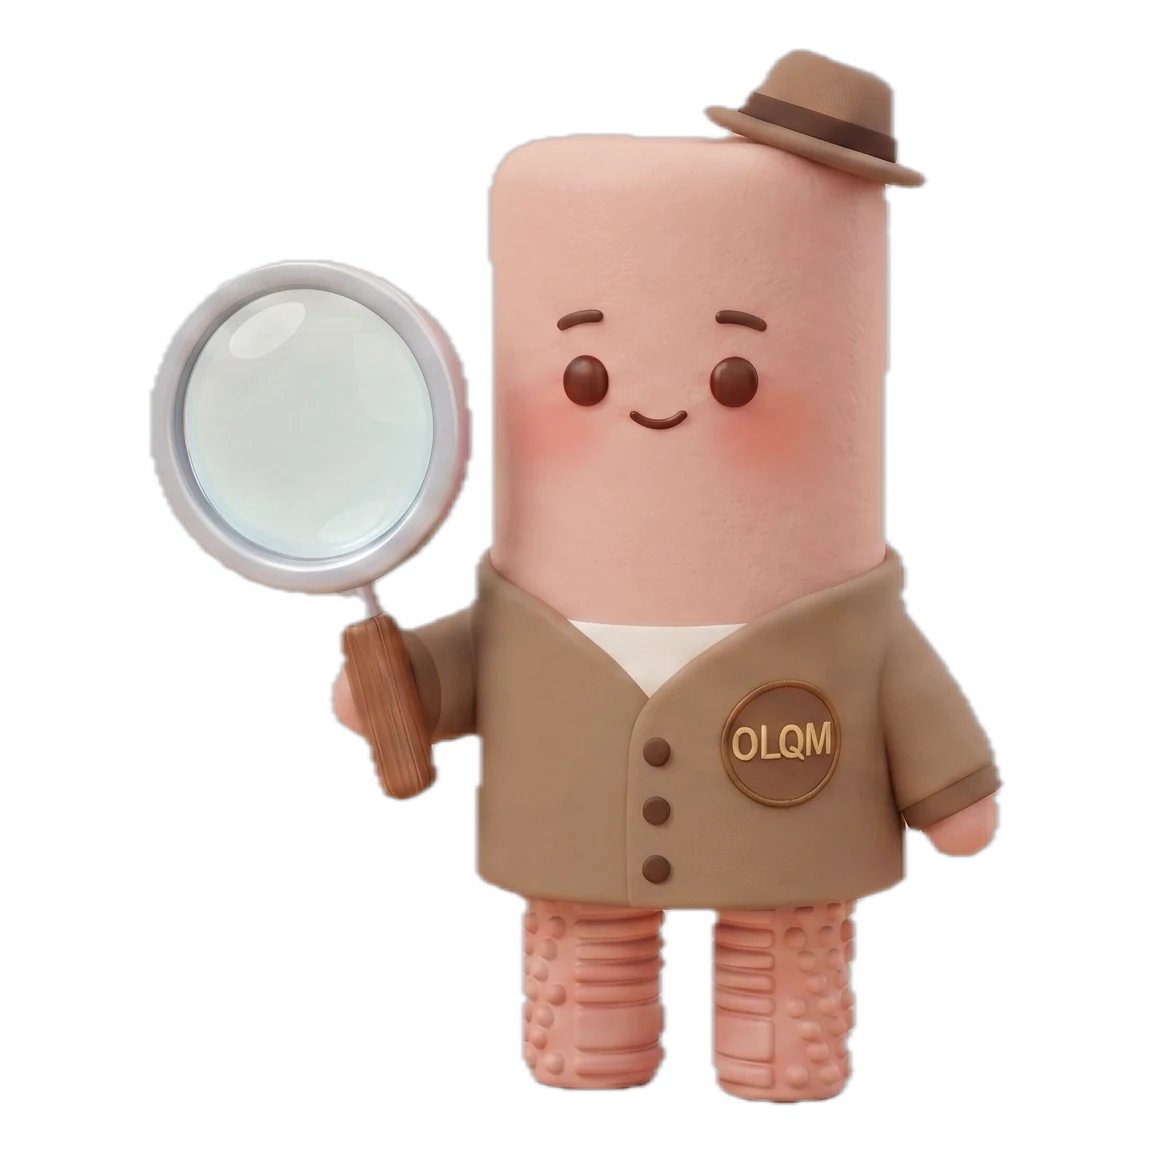
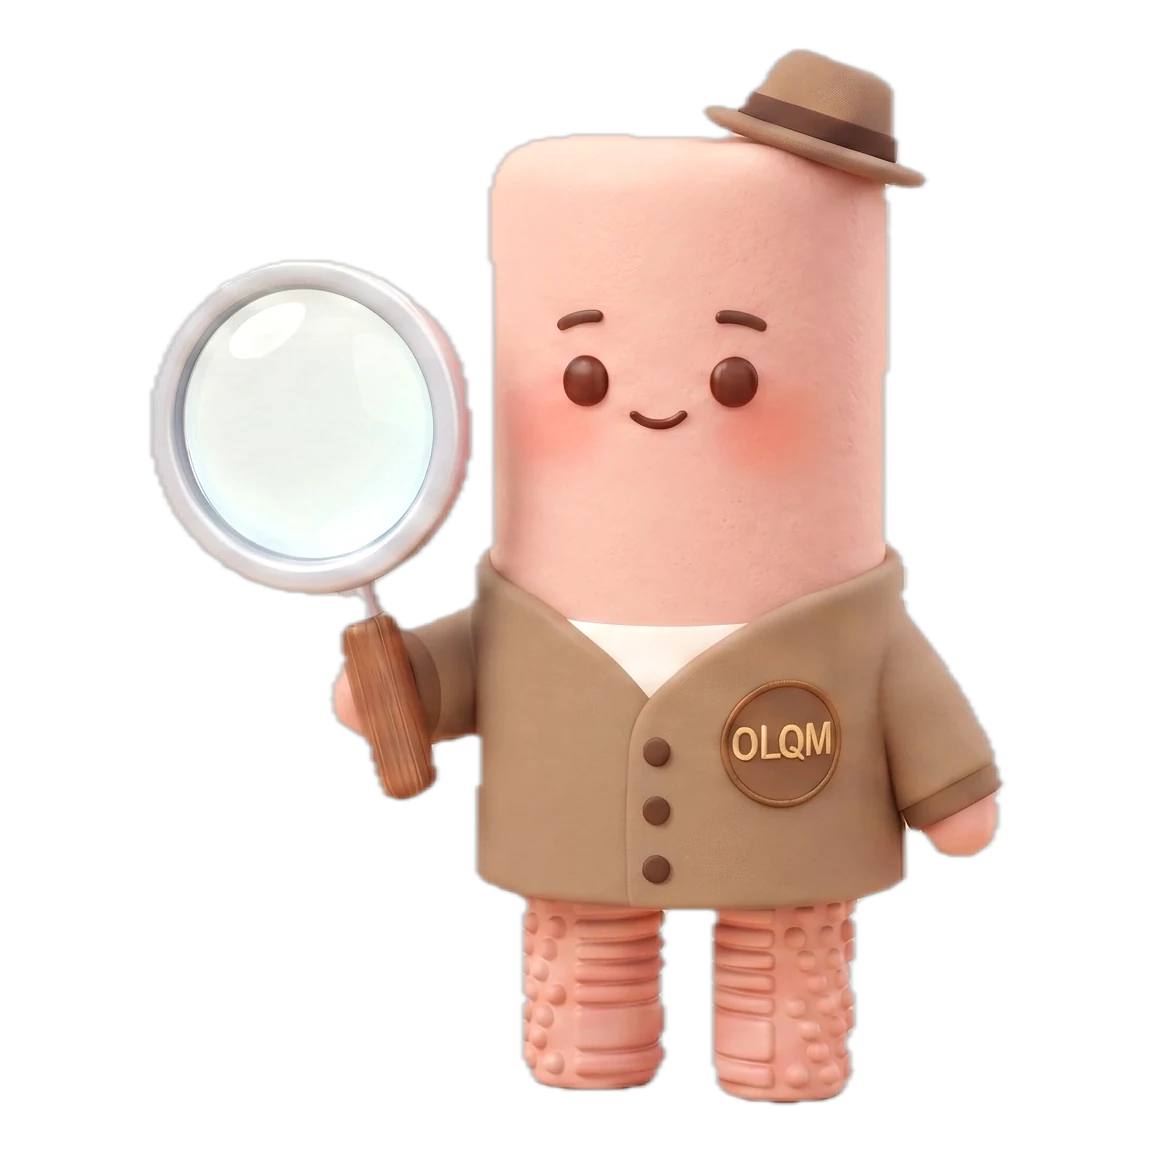
feat(diary,nav): 기록·발견 응원 문구 공유 · 미리보기 팝업 스크롤 개선 · OLQM 보정
1. 기록·발견 탭에도 캘린더와 같은 응원 문구를 넣는다.
   DiaryCalendar 안에만 있던 RECORD_MSG_M/Z와 getRecordMessage를
   lib/recordMessage.js로 분리해 월간·주간 캘린더와 기록·발견 탭이 함께 쓴다.

2. OLQM 누끼가 어두워 보여 밝기를 x1.15 올린다(평균 148.7 → 170.4).
   같은 작업을 다시 할 수 있게 tools/brighten-cutout.py도 함께 넣는다.

3. 하단 네비 중앙 누끼는 OLQM만 키운다.
   OLQM('키다리 폼롤러')은 세로로 길고 폭이 좁아(가로 비율 0.74, 다른 유형 0.91)
   정사각 슬롯에서 유독 작아 보인다. 모든 유형에 걸려 있던 확대를 걷어내고
   OLQM에만 scale-[1.22]를 준다 — 다른 유형은 56px 그대로.

4. 월간 미리보기 팝업에서 태그가 많아도 아래 박스가 납작해지지 않게 한다.
   태그 박스와 기록 요약 박스를 각각 스크롤시키던 것을 하나의 스크롤 영역으로
   합쳤다. 헤더와 하단 버튼은 그대로 고정되고, 두 박스는 내용만큼의 높이를
   유지한 채 넘치는 만큼만 가운데 영역이 스크롤된다.

5. 네이버 서치어드바이저 소유권 확인 태그를 새 값으로 교체.

diff --git a/src/components/DiaryCalendar.jsx b/src/components/DiaryCalendar.jsx
@@ -11,6 +11,7 @@ import {
 } from "../lib/diaryHistory";
 import { KEY_TO_PART_LABEL, KEY_TO_EXERCISE_TYPE_LABEL, REASON_TO_EXERCISE_LABEL, SLEEP_LABELS, SLEEP_ICON, TAG_LABEL_TO_ICON } from "../lib/diaryEntryLabels";
 import { getTypeAccent, GOLD, YELLOW, YELLOW_LINE } from "../lib/typeAccent";
+import { getRecordMessage } from "../lib/recordMessage";
 import { hasLocalHealthConsent } from "../lib/healthConsentSystem";
 import HealthConsentGate from "./HealthConsentGate";
 import { openKakaoChannelChat } from "../lib/kakaoChannel";
@@ -38,35 +39,6 @@ const addMonths = (d, n) => new Date(d.getFullYear(), d.getMonth() + n, 1);
 const addWeeks = (d, n) => { const x = new Date(d); x.setDate(x.getDate() + n * 7); return x; };
 const sameMonth = (a, b) => a.getFullYear() === b.getFullYear() && a.getMonth() === b.getMonth();
 const MONTH_MIN_DATE = new Date(MIN_YEAR, MIN_MONTH - 1, 1);
-
-// M유형 — 따뜻하고 다정한 응원 문구
-const RECORD_MSG_M = [
-  "", "첫걸음을 응원해요.", "오늘도 잊지 않았군요!", "내 마음 돌보기 3일 차.", "차곡차곡 쌓이는 하루.",
-  "조금씩 쌓이는 내 모습.", "나의 내면과 친해져요.", "일주일 달성! 멋져요.", "새로운 주도 활기차게!", "매일 더 나아지고 있어요.",
-  "꾸준한 모습이 예뻐요.", "오늘도 수고 많았어요.", "당신의 하루를 응원해요.", "좋은 습관이 생겼네요.", "벌써 2주! 수고했어요.",
-  "절반을 넘어섰네요!", "스스로를 안아주세요.", "반환점을 돌아 순항 중!", "내 마음의 소리에 집중.", "나를 알아가는 즐거움.",
-  "20일의 기적, 대단해요.", "매일의 당신이 빛나요.", "습관이 자리 잡았어요.", "오늘도 다정한 하루.", "흔들림 없는 발걸음.",
-  "거의 다 왔어요. 화이팅!", "나를 위한 최고의 선물.", "끝까지 응원할게요!", "한 달이 코앞이에요!", "조금만 더 힘을 내요.",
-  "찬란한 한 달의 완성.", "수고한 나를 토닥여요.",
-];
-
-// Z유형 — 담백하고 냉철한 동기부여 문구
-const RECORD_MSG_Z = [
-  "", "작심삼일은 넘겨봅시다.", "아직 갈 길이 멉니다.", "작심삼일 고비 넘기기.", "페이스 유지하세요.",
-  "아직 초반입니다. 집중.", "루틴이 되어갑니다.", "겨우 일주일, 더 가야죠.", "흐름 끊기지 않게 주의.", "데이터가 쌓이고 있어요.",
-  "이제야 두 자릿수 진입.", "꾸준함도 실력입니다.", "나태해지지 마세요.", "목표에 집중할 시간.", "절반 왔네요. 킵고잉.",
-  "딱 절반 지났습니다.", "후반전 시작입니다.", "절반 넘김. 흐름 유지.", "기록은 배신하지 않죠.", "확실한 패턴 분석 가능.",
-  "20일 달성. 계속 진행.", "데이터 확보. 페이스 유지.", "완주가 눈앞입니다.", "변수 통제 잘하세요.", "무리 없이 달성 중.",
-  "고지가 눈앞. 긴장 유지.", "막판까지 집중하세요.", "유종의 미를 거둡시다.", "막판 스퍼트 올리세요.", "단 며칠 남았습니다.",
-  "사실상 목표 달성.", "완주 성공. 다음 달 준비.",
-];
-
-function getRecordMessage(count, isM) {
-  if (count <= 0) return "";
-  const msgs = isM ? RECORD_MSG_M : RECORD_MSG_Z;
-  const idx = Math.min(count, msgs.length - 1);
-  return `총 ${count}일 기록했어요. ${msgs[idx]}`;
-}
 
 export default function DiaryCalendar({ onPickMood, onEditDay, bmtiCode, isLoggedIn, onRequireLogin, initialStressMood = null, onStressShown, userInfo = null, setUserProfile, gender = null }) {
   // 기록 후 캘린더로 돌아왔을 때 같은 보기(월간/주간)로 오도록 보기 상태를 저장해둔다.
@@ -333,13 +305,15 @@ export default function DiaryCalendar({ onPickMood, onEditDay, bmtiCode, isLogge
                 <div style={{ fontSize: 16, fontWeight: 800, marginTop: 2 }}>{moodInfo?.label}</div>
               </div>
 
-              {/* 첫 번째 박스(오늘의 태그) — 고정 */}
-              {(() => {
-                const tags = (previewDay.entry.tags || []).filter(tg => TAG_LABEL_TO_ICON[tg]);
-                if (!tags.length) return null;
-                return (
-                  <div style={{ flexShrink: 0, padding: "0 20px 12px" }}>
-                    <div style={{ background: "#fff", border: `1px solid ${C.yellowLine}`, borderRadius: 16, padding: "12px 14px", boxShadow: YELLOW_SHADOW }}>
+              {/* 본문 — 태그 박스와 기록 요약 박스를 한 스크롤 영역에 함께 담는다.
+                   각 박스에 따로 높이를 물리면 태그가 많을 때 아래 박스가 납작해지므로,
+                   두 박스 모두 내용만큼의 높이를 갖고 넘치는 만큼만 이 영역이 스크롤한다. */}
+              <div style={{ flex: "1 1 auto", minHeight: 0, overflowY: "auto", WebkitOverflowScrolling: "touch", overscrollBehavior: "contain", padding: "0 20px 4px" }}>
+                {(() => {
+                  const tags = (previewDay.entry.tags || []).filter(tg => TAG_LABEL_TO_ICON[tg]);
+                  if (!tags.length) return null;
+                  return (
+                    <div style={{ background: "#fff", border: `1px solid ${C.yellowLine}`, borderRadius: 16, padding: "12px 14px", marginBottom: 12, boxShadow: YELLOW_SHADOW }}>
                       <div style={{ fontSize: 11.5, fontWeight: 800, color: C.sub, marginBottom: 8 }}>오늘의 태그</div>
                       <div style={{ display: "flex", flexWrap: "wrap", gap: 8 }}>
                         {tags.map(tg => (
@@ -350,12 +324,9 @@ export default function DiaryCalendar({ onPickMood, onEditDay, bmtiCode, isLogge
                         ))}
                       </div>
                     </div>
-                  </div>
-                );
-              })()}
+                  );
+                })()}
 
-              {/* 두 번째 박스(기록 요약) — 길면 이 영역만 스크롤 */}
-              <div style={{ flex: "1 1 auto", minHeight: 0, overflowY: "auto", padding: "0 20px 4px" }}>
                 {items.length > 0 ? (
                   <div style={{ background: "#fff", border: `1px solid ${C.yellowLine}`, borderRadius: 16, padding: "2px 14px", boxShadow: YELLOW_SHADOW }}>
                     {items.map((it, i) => (

diff --git a/src/lib/recordMessage.js b/src/lib/recordMessage.js
@@ -1,0 +1,29 @@
+// 기록한 일수에 따라 달라지는 응원 문구 — 캘린더(월간·주간)와 기록·발견 탭이 함께 쓴다.
+// M유형 — 따뜻하고 다정한 응원 문구
+export const RECORD_MSG_M = [
+  "", "첫걸음을 응원해요.", "오늘도 잊지 않았군요!", "내 마음 돌보기 3일 차.", "차곡차곡 쌓이는 하루.",
+  "조금씩 쌓이는 내 모습.", "나의 내면과 친해져요.", "일주일 달성! 멋져요.", "새로운 주도 활기차게!", "매일 더 나아지고 있어요.",
+  "꾸준한 모습이 예뻐요.", "오늘도 수고 많았어요.", "당신의 하루를 응원해요.", "좋은 습관이 생겼네요.", "벌써 2주! 수고했어요.",
+  "절반을 넘어섰네요!", "스스로를 안아주세요.", "반환점을 돌아 순항 중!", "내 마음의 소리에 집중.", "나를 알아가는 즐거움.",
+  "20일의 기적, 대단해요.", "매일의 당신이 빛나요.", "습관이 자리 잡았어요.", "오늘도 다정한 하루.", "흔들림 없는 발걸음.",
+  "거의 다 왔어요. 화이팅!", "나를 위한 최고의 선물.", "끝까지 응원할게요!", "한 달이 코앞이에요!", "조금만 더 힘을 내요.",
+  "찬란한 한 달의 완성.", "수고한 나를 토닥여요.",
+];
+
+// Z유형 — 담백하고 냉철한 동기부여 문구
+export const RECORD_MSG_Z = [
+  "", "작심삼일은 넘겨봅시다.", "아직 갈 길이 멉니다.", "작심삼일 고비 넘기기.", "페이스 유지하세요.",
+  "아직 초반입니다. 집중.", "루틴이 되어갑니다.", "겨우 일주일, 더 가야죠.", "흐름 끊기지 않게 주의.", "데이터가 쌓이고 있어요.",
+  "이제야 두 자릿수 진입.", "꾸준함도 실력입니다.", "나태해지지 마세요.", "목표에 집중할 시간.", "절반 왔네요. 킵고잉.",
+  "딱 절반 지났습니다.", "후반전 시작입니다.", "절반 넘김. 흐름 유지.", "기록은 배신하지 않죠.", "확실한 패턴 분석 가능.",
+  "20일 달성. 계속 진행.", "데이터 확보. 페이스 유지.", "완주가 눈앞입니다.", "변수 통제 잘하세요.", "무리 없이 달성 중.",
+  "고지가 눈앞. 긴장 유지.", "막판까지 집중하세요.", "유종의 미를 거둡시다.", "막판 스퍼트 올리세요.", "단 며칠 남았습니다.",
+  "사실상 목표 달성.", "완주 성공. 다음 달 준비.",
+];
+
+export function getRecordMessage(count, isM) {
+  if (count <= 0) return "";
+  const msgs = isM ? RECORD_MSG_M : RECORD_MSG_Z;
+  const idx = Math.min(count, msgs.length - 1);
+  return `총 ${count}일 기록했어요. ${msgs[idx]}`;
+}

diff --git a/src/components/MallangDiscoveryReport.jsx b/src/components/MallangDiscoveryReport.jsx
@@ -29,6 +29,7 @@ import bodyFemaleBack from "../assets/3d_body/female_back.png";
 import bodyMaleFront from "../assets/3d_body/male_front.png";
 import bodyMaleBack from "../assets/3d_body/male_back.png";
 import { openKakaoChannelChat } from "../lib/kakaoChannel";
+import { getRecordMessage } from "../lib/recordMessage";
 
 // mallangReportEngine.js는 순수 로직 파일 — 이 컴포넌트는 그 출력을 그리기만 한다.
 // (IMPLEMENTATION.md: "당신이 할 일은 UI를 만드는 것뿐입니다")
@@ -470,7 +471,9 @@ export default function MallangDiscoveryReport({ onClose, bmtiCode, userData, is
           </button>
         </div>
         <p style={{ textAlign: "center", fontSize: 12.5, color: "#8B7BD8", fontWeight: 700, margin: "0 0 16px" }}>
-          이번 달 {report.meta.recordedDays}일 기록했어요
+          {report.meta.recordedDays > 0
+            ? getRecordMessage(report.meta.recordedDays, (bmtiCode ? bmtiCode.split("-")[0] : "").includes("M"))
+            : "아직 기록이 없어요"}
         </p>
 
         {/* 카테고리 탭 — 위 날짜·기록수와 함께 고정. 선택 시 흰 알약이 옆으로 미끄러진다 */}

diff --git a/src/components/Navbar.jsx b/src/components/Navbar.jsx
@@ -175,7 +175,10 @@ const Navbar = ({ currentView, setView, isLoggedIn, setIsLoggedIn, onRequireLogi
   const axisCode = bmtiCode ? bmtiCode.split('-')[0] : '';
   const charData = CHARACTERS.find(c => c.id === axisCode);
   const defaultAiImage = '⭐';
-  const aiAvatar = charData ? <img src={charData.image} alt="AI" className="w-full h-full object-contain drop-shadow-md" /> : <div className="text-3xl">{defaultAiImage}</div>;
+  // OLQM('키다리 폼롤러')만 세로로 길고 폭이 좁아 정사각 슬롯에서 유독 작아 보인다.
+  // 다른 유형은 그대로 두고 이 유형의 누끼만 살짝 키운다.
+  const navAvatarScale = axisCode === 'OLQM' ? ' scale-[1.22]' : '';
+  const aiAvatar = charData ? <img src={charData.image} alt="AI" className={`w-full h-full object-contain drop-shadow-md${navAvatarScale}`} /> : <div className="text-3xl">{defaultAiImage}</div>;
 
   return (
     <>

diff --git a/index.html b/index.html
@@ -28,7 +28,7 @@
 
     <!-- ▼▼▼ 웹마스터 사이트 소유권 확인 태그 ▼▼▼ -->
     <meta name="google-site-verification" content="CJCdJIIUzvuJJQh6yDkExfObz5aR27-YGszL4ZMQo40" />
-    <meta name="naver-site-verification" content="07d8ef7edef712e4b9f9642678de0c8702552095" />
+    <meta name="naver-site-verification" content="9692ab4e43861f6c0ae9d7a888c2726b06b0a702" />
     <meta name="google-adsense-account" content="ca-pub-8560718405158970" />
     <!-- ▲▲▲ 웹마스터 사이트 소유권 확인 태그 자리 ▲▲▲ -->
     <link rel="manifest" href="manifest.webmanifest" />

diff --git a/tools/brighten-cutout.py b/tools/brighten-cutout.py
@@ -1,0 +1,19 @@
+# -*- coding: utf-8 -*-
+"""
+특정 유형 누끼의 밝기만 조정한다(투명 유지).
+  실행: .venv/bin/python3 tools/brighten-cutout.py OLQM 1.15
+"""
+import os, sys
+from PIL import Image, ImageEnhance
+
+if len(sys.argv) < 3:
+    raise SystemExit('사용법: brighten-cutout.py <코드> <배수>  예) OLQM 1.15')
+code, factor = sys.argv[1].upper(), float(sys.argv[2])
+p = os.path.join(os.path.dirname(os.path.dirname(os.path.abspath(__file__))),
+                 'src', 'assets', '누끼 버전', f'{code} 누끼.png')
+im = Image.open(p).convert('RGBA')
+alpha = im.getchannel('A')
+rgb = ImageEnhance.Brightness(Image.merge('RGB', im.split()[:3])).enhance(factor)
+out = rgb.convert('RGBA'); out.putalpha(alpha)
+out.save(p, 'PNG', optimize=True)
+print(f'{code} 밝기 x{factor} 적용 -> {p}')
